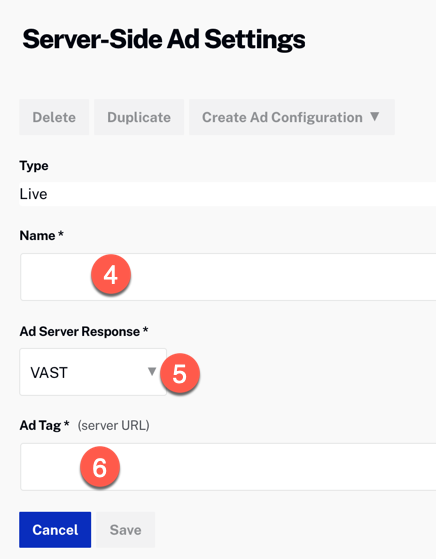
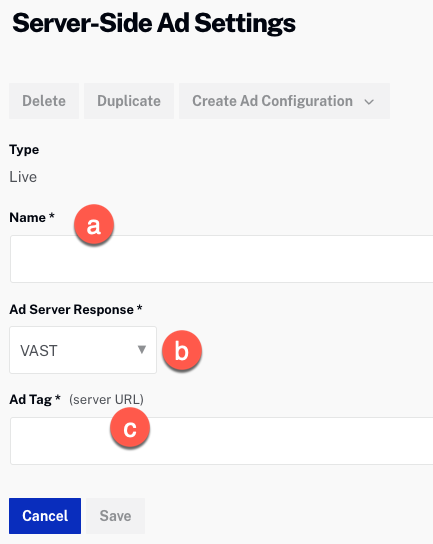
Minor update to iOS doc, and more work on Ad Targeting doc

diff --git a/_site/monetization/ssai/beacon-apps-ad-targeting.html b/_site/monetization/ssai/beacon-apps-ad-targeting.html
@@ -771,7 +771,7 @@ function doGTranslate(lang_pair) {if(lang_pair.value)lang_pair=lang_pair.value;i
     <p>For apps that run on Amazon, Roku, and Samsung (in the US), you are required to do a 70/30 split of ad inventory/revenue with the platform. This means Brightcove Beacon customers monetize 70% of the ad inventory and the platform gets the remaining 30% of the ad inventory. With this enhanced ad targeting, you can use one ad tag across all of their apps and pass the device params to your ad server. Inside your ad server, you will implement the business logic that splits the ad inventory by device. The platforms also require passing LAT - Limited Ad Targeting - for Ad Inventory Split, which is a parameter we are now sending to your ad server.</p>
     <h3>User Privacy improvements</h3>
     <ul>
-      <li>LAT “Limited Ad Targeting” - allows users of Beacon apps to opt out of ad targeting based on user behavior.</li>
+      <li>LAT (<em>Limited Ad Targeting</em>) allows users of Beacon apps to opt out of ad targeting based on user behavior.</li>
       <li>Users have the ability to reset the unique Device ID that we assign to the device at any time.</li>
     </ul>
   </section>
@@ -942,24 +942,29 @@ function doGTranslate(lang_pair) {if(lang_pair.value)lang_pair=lang_pair.value;i
     <p>Whether you are using ad targeting with VOD or Live, you need to build the query string which will be used with both. Use the following guidelines when building your query string:</p>
     <ul>
       <li>The client side parameters will be passed to the ad server when requesting ads.
-      </li>
-      <li>Client side parameters can be passed in the Playback APIs (provided in the VMAP/Manifest entry point). Those will be available to the SSAI infrastructure in the form of <code translate="no">{{url.xxx}}</code> macros where the <code>xxx</code> corresponds to the parameter key.
         <aside class="bcls-aside bcls-aside--information language-editable">Note that client-side macros are only supported for web apps.</aside>
       </li>
-      <li>Paste in your ad tag, <strong>appending your query string of ad targeting parameters</strong>:
-        <pre class="line-numbers"><code class="language-html" translate="No">variablename1={{VALUEMACRO1}}&variablename2={{VALUEMACRO2}}& ...</code></pre>
+      <!-- <li>Client side parameters can be passed in the Playback APIs (provided in the VMAP/Manifest entry point). Those will be available to the SSAI infrastructure in the form of <code translate="no">{{url.xxx}}</code> macros where the <code>xxx</code> corresponds to the parameter key.
+      </li> -->
+      <li>Build your ad tag, <strong>appending your query string of ad targeting parameters</strong>:
+        <pre class="line-numbers"><code class="language-html" translate="No">variablename1={VALUEMACRO1}&variablename2={VALUEMACRO2}& ...</code></pre>
       </li>
       <li>Example:
-        <pre class="line-numbers"><code class="language-html" translate="No">platform={{PLATFORM}}&os={{OS}}&appid={{APP_ID}}&did={{RDID}}</code></pre>
+        <pre class="line-numbers"><code class="language-html" translate="No">platform={PLATFORM}&os={OS}&appid={APP_ID}&did={RDID}</code></pre>
       </li>
       <li>Client-side macros for the web are expanded by the player. Please follow the documentation at <a href="https://apis.support.brightcove.com/ssai/getting-started/video-cloud-ssai-ad-config-api.html#Client_side_macros">https://apis.support.brightcove.com/ssai/getting-started/video-cloud-ssai-ad-config-api.html#Client_side_macros</a> to setup client-side macros. If support is needed for client-side macros, that should be logged through Brightcove support for Brightcove Player.</li>
       <li>Beacon apps for all platforms, but the web, will simply remove the curly braces when requesting manifest and VMAP URLs with client-side macros. e.g. a URL such as:
-        <pre class="line-numbers"><code class="language-html" translate="No">https://bolt-prefix/blah.vmap?pageVar.whatever={{pageVar.whatever}}</code></pre>
+        <pre class="line-numbers"><code class="language-html" translate="No">https://bolt-prefix/blah.vmap?pageVar.whatever={pageVar.whatever}</code></pre>
         <p>will be requested as</p>
         <pre class="line-numbers"><code class="language-html" translate="No">https://bolt-prefix/blah.vmap?pageVar.whatever=pageVar.whatever</code></pre>
       </li>
-      <li>The complete ad tag will include your ad server URL and parameters AND your targeting query string (highlighted):
-        <pre class="line-numbers"><code class="language-html" translate="No">https://ads.brightcove.com/ads?tech=dfpadrules&dur=15<span class="bcls-highlight">?platform={{PLATFORM}}&os={{OS}}&appid={{APP_ID}}&did={{RDID}}</span></code></pre>
+      <li>The complete ad tag will include:
+        <ul>
+          <li>your ad server URL</li>
+          <li>your ad server parameters</li>
+          <li>your targeting query string (highlighted)</li>
+        </ul>
+        <pre class="line-numbers"><code class="language-html" translate="No">https://ads.brightcove.com/ads?tech=dfpadrules&dur=15<span class="bcls-highlight">?platform={PLATFORM}&os={OS}&appid={APP_ID}&did={RDID}</span></code></pre>
       </li>
     </ul>
     <p>Be sure to have your desired ad targeting query string built as you will need it in the implementation steps below.</p>
@@ -1025,20 +1030,22 @@ function doGTranslate(lang_pair) {if(lang_pair.value)lang_pair=lang_pair.value;i
     <ol class="bcls-tasklist-restart">
       <li>In Video Cloud Studio, navigate to <strong>Admin → Server-Side Ad Settings</strong>. (For full details see the <a href="/monetization/ssai/vod-ssai.html">Implementing VOD SSAI</a> document.)</li>
       <li>
-        From the <span class="blue-button">Create Ad Configuration</span> dropdown, select <strong>Live</strong>
+        From the <strong>Create Ad Configuration</strong> dropdown, select <strong>Live</strong>
         <figure class="bcls-figure">
           <img class="bcls-image" src="/assets/images/using-bcb/ad-targeting/create-live-ad-config.png" alt="Create Live Ad Config">
           <figcaption class="bcls-caption--image">Create Live Ad Config</figcaption>
         </figure>
       </li>
-      <li>Add a name for the ad config</li>
-      <figure class="bcls-figure">
-        <img class="bcls-image" src="/assets/images/using-bcb/ad-targeting/ssai-config-live.png" alt="SSAI Configuration Live">
-        <figcaption class="bcls-caption--image">SSAI Configuration Live</figcaption>
-      </figure>
-      <li>Select <strong>VAST</strong> your ad response</li>
-      <li>
-        Paste in your ad tag, <strong>appending your query string of ad targeting params</strong>.
+      <li>Complete the following:
+        <ol type="a">
+          <li>Add a name for the ad config.</li>
+          <li>Select <strong>VAST</strong> for your ad response.</li>
+          <li>Paste in your ad tag, <strong>appending your query string of ad targeting params</strong>.</li>
+        </ol>
+        <figure class="bcls-figure">
+          <img class="bcls-image" src="/assets/images/using-bcb/ad-targeting/ssai-config-live.png" alt="SSAI Configuration Live">
+          <figcaption class="bcls-caption--image">SSAI Configuration Live</figcaption>
+        </figure>
       </li>
       <li>Click <strong>Save</strong>.</li>
       <li>Find your new ad configuration in the table and copy your ad config ID. You will need this value for the Beacon advertising configuration.

diff --git a/monetization/ssai/beacon-apps-ad-targeting.html b/monetization/ssai/beacon-apps-ad-targeting.html
@@ -24,7 +24,7 @@ grandparent: Monetization
     <p>For apps that run on Amazon, Roku, and Samsung (in the US), you are required to do a 70/30 split of ad inventory/revenue with the platform. This means Brightcove Beacon customers monetize 70% of the ad inventory and the platform gets the remaining 30% of the ad inventory. With this enhanced ad targeting, you can use one ad tag across all of their apps and pass the device params to your ad server. Inside your ad server, you will implement the business logic that splits the ad inventory by device. The platforms also require passing LAT - Limited Ad Targeting - for Ad Inventory Split, which is a parameter we are now sending to your ad server.</p>
     <h3>User Privacy improvements</h3>
     <ul>
-      <li>LAT “Limited Ad Targeting” - allows users of Beacon apps to opt out of ad targeting based on user behavior.</li>
+      <li>LAT (<em>Limited Ad Targeting</em>) allows users of Beacon apps to opt out of ad targeting based on user behavior.</li>
       <li>Users have the ability to reset the unique Device ID that we assign to the device at any time.</li>
     </ul>
   </section>
@@ -195,24 +195,29 @@ grandparent: Monetization
     <p>Whether you are using ad targeting with VOD or Live, you need to build the query string which will be used with both. Use the following guidelines when building your query string:</p>
     <ul>
       <li>The client side parameters will be passed to the ad server when requesting ads.
-      </li>
-      <li>Client side parameters can be passed in the Playback APIs (provided in the VMAP/Manifest entry point). Those will be available to the SSAI infrastructure in the form of <code translate="no">{{url.xxx}}</code> macros where the <code>xxx</code> corresponds to the parameter key.
         <aside class="bcls-aside bcls-aside--information language-editable">Note that client-side macros are only supported for web apps.</aside>
       </li>
-      <li>Paste in your ad tag, <strong>appending your query string of ad targeting parameters</strong>:
-        <pre class="line-numbers"><code class="language-html" translate="No">variablename1={{VALUEMACRO1}}&variablename2={{VALUEMACRO2}}& ...</code></pre>
+      <!-- <li>Client side parameters can be passed in the Playback APIs (provided in the VMAP/Manifest entry point). Those will be available to the SSAI infrastructure in the form of <code translate="no">{{url.xxx}}</code> macros where the <code>xxx</code> corresponds to the parameter key.
+      </li> -->
+      <li>Build your ad tag, <strong>appending your query string of ad targeting parameters</strong>:
+        <pre class="line-numbers"><code class="language-html" translate="No">variablename1={VALUEMACRO1}&variablename2={VALUEMACRO2}& ...</code></pre>
       </li>
       <li>Example:
-        <pre class="line-numbers"><code class="language-html" translate="No">platform={{PLATFORM}}&os={{OS}}&appid={{APP_ID}}&did={{RDID}}</code></pre>
+        <pre class="line-numbers"><code class="language-html" translate="No">platform={PLATFORM}&os={OS}&appid={APP_ID}&did={RDID}</code></pre>
       </li>
       <li>Client-side macros for the web are expanded by the player. Please follow the documentation at <a href="https://apis.support.brightcove.com/ssai/getting-started/video-cloud-ssai-ad-config-api.html#Client_side_macros">https://apis.support.brightcove.com/ssai/getting-started/video-cloud-ssai-ad-config-api.html#Client_side_macros</a> to setup client-side macros. If support is needed for client-side macros, that should be logged through Brightcove support for Brightcove Player.</li>
       <li>Beacon apps for all platforms, but the web, will simply remove the curly braces when requesting manifest and VMAP URLs with client-side macros. e.g. a URL such as:
-        <pre class="line-numbers"><code class="language-html" translate="No">https://bolt-prefix/blah.vmap?pageVar.whatever={{pageVar.whatever}}</code></pre>
+        <pre class="line-numbers"><code class="language-html" translate="No">https://bolt-prefix/blah.vmap?pageVar.whatever={pageVar.whatever}</code></pre>
         <p>will be requested as</p>
         <pre class="line-numbers"><code class="language-html" translate="No">https://bolt-prefix/blah.vmap?pageVar.whatever=pageVar.whatever</code></pre>
       </li>
-      <li>The complete ad tag will include your ad server URL and parameters AND your targeting query string (highlighted):
-        <pre class="line-numbers"><code class="language-html" translate="No">https://ads.brightcove.com/ads?tech=dfpadrules&dur=15<span class="bcls-highlight">?platform={{PLATFORM}}&os={{OS}}&appid={{APP_ID}}&did={{RDID}}</span></code></pre>
+      <li>The complete ad tag will include:
+        <ul>
+          <li>your ad server URL</li>
+          <li>your ad server parameters</li>
+          <li>your targeting query string (highlighted)</li>
+        </ul>
+        <pre class="line-numbers"><code class="language-html" translate="No">https://ads.brightcove.com/ads?tech=dfpadrules&dur=15<span class="bcls-highlight">?platform={PLATFORM}&os={OS}&appid={APP_ID}&did={RDID}</span></code></pre>
       </li>
     </ul>
     <p>Be sure to have your desired ad targeting query string built as you will need it in the implementation steps below.</p>
@@ -278,20 +283,22 @@ grandparent: Monetization
     <ol class="bcls-tasklist-restart">
       <li>In Video Cloud Studio, navigate to <strong>Admin → Server-Side Ad Settings</strong>. (For full details see the <a href="/monetization/ssai/vod-ssai.html">Implementing VOD SSAI</a> document.)</li>
       <li>
-        From the <span class="blue-button">Create Ad Configuration</span> dropdown, select <strong>Live</strong>
+        From the <strong>Create Ad Configuration</strong> dropdown, select <strong>Live</strong>
         <figure class="bcls-figure">
           <img class="bcls-image" src="/assets/images/using-bcb/ad-targeting/create-live-ad-config.png" alt="Create Live Ad Config">
           <figcaption class="bcls-caption--image">Create Live Ad Config</figcaption>
         </figure>
       </li>
-      <li>Add a name for the ad config</li>
-      <figure class="bcls-figure">
-        <img class="bcls-image" src="/assets/images/using-bcb/ad-targeting/ssai-config-live.png" alt="SSAI Configuration Live">
-        <figcaption class="bcls-caption--image">SSAI Configuration Live</figcaption>
-      </figure>
-      <li>Select <strong>VAST</strong> your ad response</li>
-      <li>
-        Paste in your ad tag, <strong>appending your query string of ad targeting params</strong>.
+      <li>Complete the following:
+        <ol type="a">
+          <li>Add a name for the ad config.</li>
+          <li>Select <strong>VAST</strong> for your ad response.</li>
+          <li>Paste in your ad tag, <strong>appending your query string of ad targeting params</strong>.</li>
+        </ol>
+        <figure class="bcls-figure">
+          <img class="bcls-image" src="/assets/images/using-bcb/ad-targeting/ssai-config-live.png" alt="SSAI Configuration Live">
+          <figcaption class="bcls-caption--image">SSAI Configuration Live</figcaption>
+        </figure>
       </li>
       <li>Click <strong>Save</strong>.</li>
       <li>Find your new ad configuration in the table and copy your ad config ID. You will need this value for the Beacon advertising configuration.

diff --git a/_site/creating-your-apps/ios-tvos/submitting-to-apple.html b/_site/creating-your-apps/ios-tvos/submitting-to-apple.html
@@ -785,7 +785,7 @@ function doGTranslate(lang_pair) {if(lang_pair.value)lang_pair=lang_pair.value;i
   <aside class="bcls-aside bcls-aside--warning"> Note that it can take up to 24 hours after publishing for your app to be available on the App Store. See: <a href="https://stackoverflow.com/questions/24403098/appstore-app-status-is-ready-for-sale-but-not-in-app-store" target="_blank">
       AppStore - App status is ready for sale, but not in app store </a>
   </aside>
-  <h3>Required information for Apple TV:</h3>
+  <h3>Required information for Apple TV & iOS:</h3>
   <ul>
     <li>App Name</li>
     <li>Primary Language</li>

diff --git a/creating-your-apps/ios-tvos/submitting-to-apple.html b/creating-your-apps/ios-tvos/submitting-to-apple.html
@@ -37,7 +37,7 @@ grandparent: 'Creating Your Apps'
   <aside class="bcls-aside bcls-aside--warning"> Note that it can take up to 24 hours after publishing for your app to be available on the App Store. See: <a href="https://stackoverflow.com/questions/24403098/appstore-app-status-is-ready-for-sale-but-not-in-app-store" target="_blank">
       AppStore - App status is ready for sale, but not in app store </a>
   </aside>
-  <h3>Required information for Apple TV:</h3>
+  <h3>Required information for Apple TV & iOS:</h3>
   <ul>
     <li>App Name</li>
     <li>Primary Language</li>
